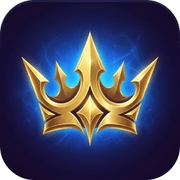
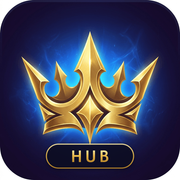
feat(heroes): 推奨サモナースペルを表示し、アイコンとタイトル・出所表記を直す
推奨サモナースペルの表示（HeroDetailClient / summonerSpellNames.ts）
  一覧ページが「詳細で確認できます」と約束していた機能を実装した。
  前回のコミットでは meta.summoner_spells を「初期コミット由来の種データで
  信用できない」と判断して見送ったが、この判断は誤りだった。実測すると、

    - lane が JUNGLE のヒーロー26体すべて（100%）がスマイトを持つ
    - JUNGLE 以外でスマイトを持つ5体（影・ミーユエ・李元芳・孔明・カイザー）は
      いずれもジャングルを回せるヒーロー
    - ピュリファイはマークスマン5体・メイジ3体と、CCで落ちるロールに集中
    - ヒール／ジャミングを持つ11体のうち9体がサポート系

  この相関は無作為な値では出ない。「閃現」「Smite」「フラッシュ」の混在は
  ラベルの問題であって、ヒーローとスペルの対応そのものは筋が通っていた。

  正規化の対応表を summonerSpellNames.ts に置き、対応表に無い値は捨てる
  （推測で表示しない）。データの無い4体（デーヴァラ・フロレンティーノ・
  ロリアン・アネット）はセクションごと出さない。基本ステータスと同じ方針。
  各スペルには先に書いた「使いどころ」の一行を添え、スペル一覧へリンクする。

日本語タイトルにカウンターを追加（heroes/[id]/page.tsx）
  全116体に理由つきの「苦手な相手」を計228件持っているのに、日本語タイトルには
  カウンター系の語が無く、その検索を取りに行けていなかった（英語版には
  Counters がある）。1体あたり平均2件なので個別ページ化はせず、タイトルのみ。

サイトアイコンに「HUB」を入れた（public/icon*.png, apple-icon.png）
  角丸スクエアに金の王冠という構図はゲームアプリのアイコンそのもので、
  サイト名・ドメインと合わさると公式アプリと誤認される余地があった。
  王冠の描き込みはそのまま残し、下の空きに金縁のバッジだけを重ねている。
  64pxに縮めても文字が判別できることを確認した。
  （縮小した元画像を重ねる方式では角丸の枠が二重に出たため、合成するのは
  SVGだけにしてある）

フッターの出所表記（Footer.tsx）
  書き起こしているのは数値だけでなくスキル説明文の全文なのに、フッターだけ
  「スキルの数値は」と粒度を落としていた。data_freshness の noteJa は正しく
  「数値と説明文」と書いており、フッターだけ後退していた。両言語で揃えた。
  あわせて、前コミットで data_freshness に追加したパッチの出典もここに出す。

検証: npm run start が返すHTMLで、廉頗・后羿・李白・荘子のスペルカードが
期待どおりのスペルで出ること、データ無し4体では出ないこと、日本語タイトルに
「カウンター対策」が入ること、フッターが両言語で直っていることを確認した。

Changed region(s): [[0.25, 0.7778, 0.75, 0.9444]]

diff --git a/src/components/heroes/HeroDetailClient.tsx b/src/components/heroes/HeroDetailClient.tsx
@@ -17,6 +17,17 @@ import heroBaseStats from '@/data/hero_base_stats.json';
 import campStatsRaw from '@/data/hero_stats_camp.json';
 import patchesData from '@/data/patches.json';
 import dataFreshness from '@/data/data_freshness.json';
+import spellsData from '@/data/hok_spells.json';
+import { normalizeSummonerSpells } from '@/content/summonerSpellNames';
+import { SPELL_GUIDE } from '@/content/spellGuide';
+
+type SpellRow = {
+  id: string;
+  japanese_name: string;
+  english_name: string;
+  icon: string;
+  cooldown: number;
+};
 
 interface HeroDetailData { key?: string;
   id: string;
@@ -758,6 +769,70 @@ export function HeroDetailClient({ id, initialDetails }: { id: string; initialDe
                   {locale === 'ja'
                     ? 'ゲーム内のヒーロー詳細画面から書き起こした値です。アルカナによる加算分は差し引いています。'
                     : "Transcribed from the in-game hero status screen. Arcana bonuses are excluded."}
+                </p>
+              </div>
+            );
+          })()}
+
+          {/* 向いているサモナースペル。対応表で正式名に寄せてから、
+              hok_spells.json のアイコン・CD・使いどころを引いて出す。
+              データの無い4体はセクションごと出さない（基本ステータスと同じ方針） */}
+          {(() => {
+            const names = normalizeSummonerSpells(wrDetails?.meta?.summoner_spells);
+            if (names.length === 0) return null;
+
+            const picks = names
+              .map((n) => (spellsData as SpellRow[]).find((s) => s.japanese_name === n))
+              .filter((s): s is SpellRow => Boolean(s));
+            if (picks.length === 0) return null;
+
+            return (
+              <div className="bg-white rounded-3xl p-5 border border-slate-200 shadow-xs">
+                <h3 className="text-sm font-black text-slate-800 flex items-center gap-2 uppercase tracking-wider mb-4 pb-3 border-b border-slate-100">
+                  <Zap size={17} className="text-amber-500" />
+                  {locale === 'ja' ? '向いているサモナースペル' : 'Summoner Spells That Fit'}
+                </h3>
+
+                <div className="space-y-2.5">
+                  {picks.map((spell) => {
+                    const guide = SPELL_GUIDE[spell.id]?.[locale === 'ja' ? 'ja' : 'en'];
+                    return (
+                      <Link
+                        key={spell.id}
+                        href="/spells"
+                        className="flex items-start gap-3 rounded-2xl border border-amber-100 bg-amber-50/60 p-3.5 transition-colors hover:border-amber-300 hover:bg-amber-50"
+                      >
+                        <Image
+                          src={spell.icon}
+                          alt=""
+                          width={40}
+                          height={40}
+                          className="h-10 w-10 shrink-0 rounded-xl border border-amber-200/70 bg-slate-900 object-cover"
+                        />
+                        <div className="min-w-0">
+                          <div className="flex items-baseline gap-2">
+                            <span className="text-[15px] font-black text-amber-950">
+                              {locale === 'ja' ? spell.japanese_name : spell.english_name}
+                            </span>
+                            <span className="text-[10px] font-black text-amber-700/80">
+                              CD {spell.cooldown}s
+                            </span>
+                          </div>
+                          {guide && (
+                            <p className="mt-0.5 text-[12px] font-bold leading-snug text-slate-600">
+                              {guide.when}
+                            </p>
+                          )}
+                        </div>
+                      </Link>
+                    );
+                  })}
+                </div>
+
+                <p className="mt-3 text-[11px] text-slate-400 font-medium leading-relaxed">
+                  {locale === 'ja'
+                    ? '選ぶ理由はサモナースペル一覧に書いています。1試合に持ち込めるのは1つで、相手の構成によって最適解は変わります。'
+                    : 'The reasoning for each is on the summoner spells page. You may only bring one per match, and the best choice shifts with the enemy draft.'}
                 </p>
               </div>
             );

diff --git a/src/content/summonerSpellNames.ts b/src/content/summonerSpellNames.ts
@@ -1,0 +1,64 @@
+/**
+ * skills/ja.json の meta.summoner_spells に入っている表記を、サイトの正式名へ寄せる対応表。
+ *
+ * 元データは中国版名（閃現・懲撃）、英語名（Flash・Smite）、カタカナ（フラッシュ・ヒール）が
+ * 混在している。値そのものは信用できる。2026-08-15 に次を実測して確認した。
+ *
+ *   - lane が JUNGLE のヒーロー26体すべて（100%）がスマイトを持つ
+ *   - JUNGLE 以外でスマイトを持つ5体（影・ミーユエ・李元芳・孔明・カイザー）は
+ *     いずれもジャングルを回せるヒーロー
+ *   - ピュリファイはマークスマン5体・メイジ3体と、CCで落ちるロールに集中
+ *   - ヒール／ジャミングを持つ11体のうち9体がサポート系
+ *
+ * この偏りは無作為な値では出ない。表記が乱れているだけで、対応そのものは筋が通っている。
+ *
+ * 右辺は hok_spells.json の japanese_name と一致させること。
+ * 一致しないとアイコンとリンク先を引けない。
+ */
+
+export const SUMMONER_SPELL_ALIASES: Record<string, string> = {
+  // フラッシュ
+  閃現: 'フラッシュ',
+  Flash: 'フラッシュ',
+  フラッシュ: 'フラッシュ',
+  // スマイト
+  懲撃: 'スマイト',
+  Smite: 'スマイト',
+  // ターミネート
+  処刑: 'ターミネート',
+  Execute: 'ターミネート',
+  // ピュリファイ
+  浄化: 'ピュリファイ',
+  Purify: 'ピュリファイ',
+  // ヒール
+  治療: 'ヒール',
+  Heal: 'ヒール',
+  ヒール: 'ヒール',
+  回復: 'ヒール',
+  // ウィークネス
+  弱化: 'ウィークネス',
+  // バーサーク
+  狂暴: 'バーサーク',
+  // ジャミング
+  妨害: 'ジャミング',
+  // スタン
+  気絶: 'スタン',
+  眩暈: 'スタン',
+  // ダッシュ
+  疾歩: 'ダッシュ',
+  疾跑: 'ダッシュ',
+  // ワープ
+  瞬間移動: 'ワープ',
+};
+
+/** 生の値を正式名に直す。対応表に無い値は捨てる（推測で表示しない） */
+export function normalizeSummonerSpells(raw: unknown): string[] {
+  if (!Array.isArray(raw)) return [];
+  const out: string[] = [];
+  for (const v of raw) {
+    const key = typeof v === 'string' ? v.trim() : '';
+    const name = SUMMONER_SPELL_ALIASES[key];
+    if (name && !out.includes(name)) out.push(name);
+  }
+  return out;
+}

diff --git a/src/components/layout/Footer.tsx b/src/components/layout/Footer.tsx
@@ -40,8 +40,10 @@ export function Footer() {
         {/* どのデータがどこ由来かを分けて書く。統計と解説を同じ信頼度だと誤解されないようにする */}
         <p className="text-[10px] font-bold text-slate-400 mb-2 leading-relaxed">
           {locale === 'en'
-            ? `Tier, win rate, pick rate and ban rate are taken from ${dataFreshness.campStats.sourceEn} statistics (as of ${dataFreshness.campStats.updatedAt}). Skill values are transcribed from ${dataFreshness.skillData.sourceEn}. Matchups, synergies and strategy write-ups are this site's own commentary.`
-            : `Tier・勝率・出現率・BAN率は${dataFreshness.campStats.sourceJa}の統計（${dataFreshness.campStats.updatedAt}時点）です。スキルの数値は${dataFreshness.skillData.sourceJa}から書き起こしています。相性・立ち回りの解説は当サイト独自のものです。`}
+            // 書き起こしているのは数値だけでなく説明文の全文。data_freshness の
+            // noteJa は正しく「数値と説明文」と書いているので、そちらに粒度を揃える
+            ? `Tier, win rate, pick rate and ban rate are taken from ${dataFreshness.campStats.sourceEn} statistics (as of ${dataFreshness.campStats.updatedAt}). Skill values and descriptions are transcribed from ${dataFreshness.skillData.sourceEn}. Patch notes are translated from ${dataFreshness.patchNotes.sourceEn}. Matchups, synergies and strategy write-ups are this site's own commentary.`
+            : `Tier・勝率・出現率・BAN率は${dataFreshness.campStats.sourceJa}の統計（${dataFreshness.campStats.updatedAt}時点）です。スキルの数値と説明文は${dataFreshness.skillData.sourceJa}から書き起こしています。パッチの変更内容は${dataFreshness.patchNotes.sourceJa}の翻訳です。相性・立ち回りの解説は当サイト独自のものです。`}
         </p>
         <p className="text-[10px] font-bold text-slate-400">
           {locale === 'en' 

diff --git a/src/app/[locale]/heroes/[id]/page.tsx b/src/app/[locale]/heroes/[id]/page.tsx
@@ -32,8 +32,10 @@ export async function generateMetadata({ params }: { params: Promise<{ locale: s
   const heroName = locale === 'ja' ? (hero?.name || id) : (hero?.name_en || hero?.name || id);
   // 注意: ビルド（推奨装備）セクションは現在非表示のため、タイトル・説明文で
   // 「ビルド」を約束しない（看板と実態の不一致は SEO・AdSense 双方に不利）
+  // 全116体に理由つきの「苦手な相手」を計228件持っているのに、日本語タイトルだけ
+  // カウンター系の語が無く、その検索を取りに行けていなかった（英語版には Counters がある）
   const title = locale === 'ja'
-    ? `【オナーオブキングス】${heroName}の評価とスキル・立ち回り解説`
+    ? `【オナーオブキングス】${heroName}の評価・カウンター対策・立ち回り解説`
     : `${heroName} Guide: Skills, Counters & Strategy - Honor of Kings (HoK)`;
   const description = locale === 'ja'
     ? `オナーオブキングス（HoK）の${heroName}の最新Tier評価、スキル解説、カウンター、立ち回りを徹底解説！`
